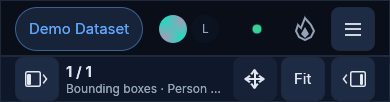
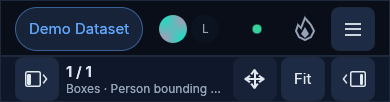
Final stacked mobile bars evidence at a534d6ed7298c836f8229b3c814f9a3b5bc23878

Changed region(s): [[0.1846, 0.8235, 0.5538, 0.9412]]

diff --git a/README.md b/README.md
@@ -1,9 +1,10 @@
 # Issue 219 mobile bars evidence
 
-Production revision: ac144db3669fe79330860cdc63de08b1b8bbd739. Verification base: 958b654ed5b2f8b00ce0d51777ace3c13df38afc.
-All data is synthetic. Only application bars and navigation drawers are included.
+Final stacked production revision: a534d6ed7298c836f8229b3c814f9a3b5bc23878. Parent PR #221 / verification base: 2026961c2b26bdb7a1f529f81113fc1d4fed7a68. Common base: 958b654ed5b2f8b00ce0d51777ace3c13df38afc.
 
-Native inspector uses scale 1. Before images use 2d7f350cde42e04216e56c04dbcbd9ae86439204. After images use the task diff published as the production revision above. The final keyboard capture was refreshed on the verification base; other native images precede the base update, which did not change their depicted states.
+All data is synthetic. Captures contain only application bars, navigation drawers and the image-free workflow-change dialog. Native scale is 1.
+
+Before images use 2d7f350cde42e04216e56c04dbcbd9ae86439204. Refreshed native bar/drawer images and Chromium images use the final issue diff on the parent above, committed as a534d6ed7298c836f8229b3c814f9a3b5bc23878. The retained keyboard-scroll and migration-discovery images use pre-stack revision ac144db3669fe79330860cdc63de08b1b8bbd739; the two combined workflow-change images use stacked revision 9654fc34768777d9f1817a2967d079c3cb750345. Their depicted content is unchanged by the final Boxes-label and Inspect-icon refinements.
 
 | Image | Scenario and viewport |
 | --- | --- |
@@ -19,6 +20,9 @@ Native inspector uses scale 1. Before images use 2d7f350cde42e04216e56c04dbcbd9a
 | review-correction-320.png | Review correction wraps when needed, 320×320 |
 | migration-discovery-390.png | Migration discovery retains phase context, 390×844 |
 | native-195-zoom-layout.png | Extreme logical-width header and context controls, 195×422 |
+| stack-workflow-change-390.png | Combined parent reason/type dialog and child bars, 390×844, native scale 1; Escape remains blocked |
+| stack-workflow-change-320.png | Combined short-screen dialog, 320×320, native scale 1; Tab/Enter acknowledgment tested |
+| inspect-icon-800.png | Inspect uses multiple image primitives in the icon-only top bar, 800×800, native scale 1 |
 | browser-390.png | Chromium review, 390×844 CSS pixels, DPR 1, zoom 100% |
 | browser-zoom-200.png | Chromium review, 390×844 CSS viewport, DPR 1, actual tab zoom 200% |
 | browser-drawer-zoom-200.png | Chromium scrollable drawer, 390×844, DPR 1, actual tab zoom 200% |
